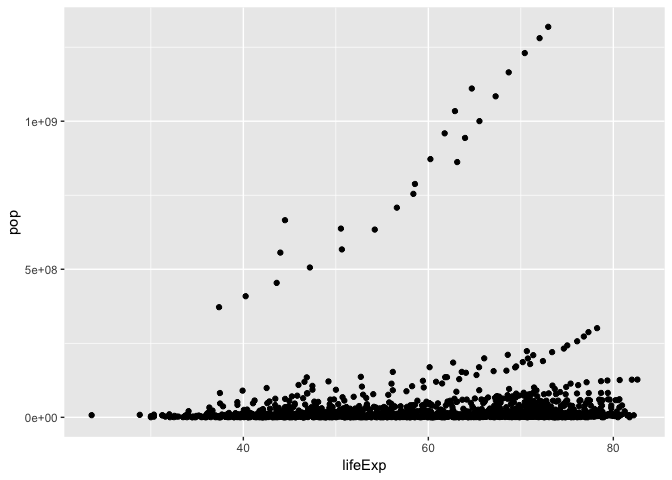
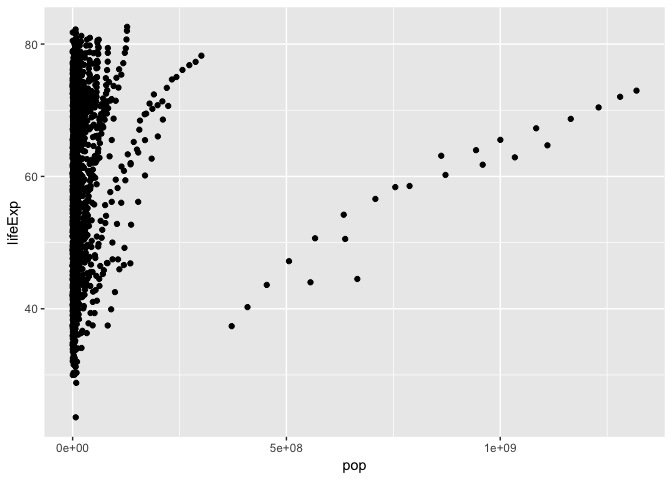
Final commit!

diff --git a/hw02-tsmith93.md b/hw02-tsmith93.md
@@ -3,27 +3,33 @@ hw02-tsmith93
 Thomas Smith
 2018-09-19
 
-Load gapminder and tidyverse
+Initial exploration
+-------------------
+
+If you haven't already done so, download both gapminder and tidyverse using `install.packages()`
+
+Next load gapminder and tidyverse:
 
 ``` r
 library(gapminder)
 library(tidyverse)
 ```
 
-    ## ── Attaching packages ─────────────────────────────────────────────── tidyverse 1.2.1 ──
+    ## ── Attaching packages ──────────────────────────────────────────────────────────────────────────── tidyverse 1.2.1 ──
 
     ## ✔ ggplot2 3.0.0     ✔ purrr   0.2.5
     ## ✔ tibble  1.4.2     ✔ dplyr   0.7.6
     ## ✔ tidyr   0.8.1     ✔ stringr 1.3.1
     ## ✔ readr   1.1.1     ✔ forcats 0.3.0
 
-    ## ── Conflicts ────────────────────────────────────────────────── tidyverse_conflicts() ──
+    ## ── Conflicts ─────────────────────────────────────────────────────────────────────────────── tidyverse_conflicts() ──
     ## ✖ dplyr::filter() masks stats::filter()
     ## ✖ dplyr::lag()    masks stats::lag()
 
-What type of file?
+What type of file is gapminder?
 
 ``` r
+#use class function
 class(gapminder)
 ```
 
@@ -34,6 +40,7 @@ The function class (above) shows this is a tibble data frame, tibble, and a data
 You can fin out the number of observations/rows and variable/collumns, respectively:
 
 ``` r
+#dim is short for dimensions!
 dim(gapminder)
 ```
 
@@ -44,6 +51,7 @@ This shows there are 6 collumns/variables and 1704 rows/observations
 Alternatively, you can use individual functions to identify either number of rows:
 
 ``` r
+#n represents numbers
 nrow(gapminder)
 ```
 
@@ -60,6 +68,7 @@ ncol(gapminder)
 You can also figure out what is the type of each variables individually:
 
 ``` r
+#first call upon the dataframe, followed by the variable you want to investigate
 class(gapminder$country)
 ```
 
@@ -88,6 +97,10 @@ lapply(gapminder, class)
     ## 
     ## $gdpPercap
     ## [1] "numeric"
+
+``` r
+#lapply will call upon all the variables within the specified dataframe
+```
 
 You can also look at the range of variables, whether they be categorical:
 
@@ -167,6 +180,10 @@ levels(gapminder$country)
     ## [139] "West Bank and Gaza"       "Yemen, Rep."             
     ## [141] "Zambia"                   "Zimbabwe"
 
+``` r
+#levels is used specifically for categorical variables
+```
+
 Or quantitative:
 
 ``` r
@@ -174,6 +191,10 @@ range(gapminder$lifeExp)
 ```
 
     ## [1] 23.599 82.603
+
+``` r
+#range is used for quantitative variables
+```
 
 Here is a summary of the data, including distribution:
 
@@ -197,6 +218,12 @@ summary(gapminder)
     ##  3rd Qu.:1.959e+07   3rd Qu.:  9325.5  
     ##  Max.   :1.319e+09   Max.   :113523.1  
     ## 
+
+``` r
+#summary will show the spread of the data. Specifically, it tells you the minumum and maximum values, the 1st and 3rd quartile, the median and the mean.
+```
+
+For all the categorical variables, such as country and continent, only the total number of observations are shown. For quantitative variables, the distribution of data is shown.
 
 Specific summary statistics can also be shown, such as the mean of each variable:
 
@@ -228,6 +255,17 @@ lapply(gapminder, mean)
     ## $gdpPercap
     ## [1] 7215.327
 
+``` r
+#Again, lapply allows you to look all variables with one command
+```
+
+No mean values are shown for the categorical variables as it is not possible!
+
+Visual representation
+---------------------
+
+### Plotting two variables together
+
 Next we can plot some of these variables. To start off, we will do a scatterplot of two variables. But before then, it is always good practice to make a grammar component table:
 
 | Grammar Component     | Specification |
@@ -241,11 +279,37 @@ Next we can plot some of these variables. To start off, we will do a scatterplot
 | facetting             | none          |
 
 ``` r
-ggplot(gapminder, aes(x=lifeExp, y=pop)) + 
-    geom_point()
+#Make things easy by assigning a standard plot to variable title "lvsp", meaning lifeExp vs. population
+lvsp <- ggplot(gapminder, aes(x=pop, y=lifeExp)) 
+#next add a geometric object so you can actually see the data ;)
+lvsp + geom_point()
 ```
 
-![](hw02-tsmith93_files/figure-markdown_github/unnamed-chunk-12-1.png)
+![](hw02-tsmith93_files/figure-markdown_github/unnamed-chunk-12-1.png) This plot shows how life expectancy increases with gdpPercap. Lets more clearly present this information with a trendline.
+
+Using multiple functions, you can remove "distracting" elements in the plot.
+
+``` r
+lvsp + geom_point() + 
+#remove the background grid and colour
+  theme(panel.grid.major = element_blank(), panel.grid.minor = element_blank(), panel.background = element_blank(),
+#add axis lines        
+  axis.line = element_line(colour = "black"))
+```
+
+![](hw02-tsmith93_files/figure-markdown_github/unnamed-chunk-13-1.png)
+
+Or you can more clearly present what the data is showing:
+
+``` r
+lvsp + geom_point() +
+#this line adds a trendline with lm meaning linear model, se = FALSE removes standard error bars, aes makes the trendline for each continent a different colour  
+  geom_smooth(method = "lm", se = FALSE, aes(colour = continent))
+```
+
+![](hw02-tsmith93_files/figure-markdown_github/unnamed-chunk-14-1.png) This shows that in Africa, life expectancy increases the most rapidly with gdp per capita compared to other continents.
+
+### Plotting one variable
 
 We can also present data for one quantitative variable using plots such as histograms:
 
@@ -258,15 +322,17 @@ We can also present data for one quantitative variable using plots such as histo
 | statistical transform | none          |
 
 ``` r
+#First describe the data and aesthetic mapping
 ggplot(gapminder, aes(gdpPercap)) +
-    geom_histogram()
+#Next add the geometric object which is a histogram, and describe the width of the bins, in this case 30
+    geom_histogram(bins = 30)
 ```
 
-    ## `stat_bin()` using `bins = 30`. Pick better value with `binwidth`.
+![](hw02-tsmith93_files/figure-markdown_github/unnamed-chunk-15-1.png)
 
-![](hw02-tsmith93_files/figure-markdown_github/unnamed-chunk-13-1.png)
+### Plotting categorical variables with quantitative variables
 
-Finally, we can plot quantitative and categorical data together. A popular choice for this is a boxplot:
+A popular choice for plotting the ttwo types of variables is with a boxplot:
 
 | Grammar Component     | Specification    |
 |-----------------------|------------------|
@@ -278,13 +344,18 @@ Finally, we can plot quantitative and categorical data together. A popular choic
 
 ``` r
 a <- ggplot(gapminder, aes(continent, lifeExp)) +
+#you can also add a log-y scale with this next function
   scale_y_log10()
-a
+#add a boxplot, and maybve even some colour!
+a + geom_boxplot(aes(fill = continent))
 ```
 
-![](hw02-tsmith93_files/figure-markdown_github/unnamed-chunk-14-1.png)
+![](hw02-tsmith93_files/figure-markdown_github/unnamed-chunk-16-1.png)
 
-We are also able to filter our data in order to plot data in a more precise way:
+Sorting data
+------------
+
+We can use functions such as select to specify the data we want to look at:
 
 ``` r
 select(gapminder, country, year, lifeExp)
@@ -305,10 +376,14 @@ select(gapminder, country, year, lifeExp)
     ## 10 Afghanistan  1997    41.8
     ## # ... with 1,694 more rows
 
+``` r
+#first specify the dataframe, followed by all the variables you want to include
+```
+
 Alternatively, filter:
 
 ``` r
-filter(gapminder, lifeExp>34)
+filter(gapminder, lifeExp > 34)
 ```
 
     ## # A tibble: 1,680 x 6
@@ -326,11 +401,17 @@ filter(gapminder, lifeExp>34)
     ## 10 Albania     Europe     1952    55.2  1282697     1601.
     ## # ... with 1,670 more rows
 
+``` r
+#the dataframe, followed by a certain rule you would like to apply
+```
+
+Look! Only the rows where life expectancy above 30 is shown.
+
 Another way is to use piping:
 
 ``` r
 gapminder %>% 
-  filter(lifeExp<30)
+  filter(lifeExp < 30)
 ```
 
     ## # A tibble: 2 x 6
@@ -341,40 +422,72 @@ gapminder %>%
 
 Now, why don't we apply filters to `ggplot()`!
 
-| Grammar Component     | Specification |
-|-----------------------|---------------|
-| **data**              | `gapminder`   |
-| **aesthetic mapping** |               |
-| **geometric object**  |               |
-| scale                 |               |
-| statistical transform |               |
+| Grammar Component     | Specification  |
+|-----------------------|----------------|
+| **data**              | `gapminder`    |
+| **aesthetic mapping** | \`x and y      |
+| **geometric object**  | line and point |
+| scale                 | linear         |
+| statistical transform | none           |
 
 ``` r
 gapminder %>% 
+#pipe out a specific country  
  filter(country == "India") %>% 
+#specify x and y variables
  ggplot(aes(year, pop)) +
+#add geometric objects
  geom_line() +
  geom_point()
 ```
 
-![](hw02-tsmith93_files/figure-markdown_github/unnamed-chunk-18-1.png)
+![](hw02-tsmith93_files/figure-markdown_github/unnamed-chunk-20-1.png)
 
 Or we can even plot the same information for multiple countries at the same time:
 
 ``` r
+#Specify the data and aesthetic mapping to a specific variable
 c <- ggplot(gapminder, aes(year, lifeExp))
-c + geom_line()
+#Add a geometric shape
+c + geom_line() +
+#Add trendlines for country
+  geom_line(aes(group=country), alpha=0.2)
 ```
 
-![](hw02-tsmith93_files/figure-markdown_github/unnamed-chunk-19-1.png)
+![](hw02-tsmith93_files/figure-markdown_github/unnamed-chunk-21-1.png)
+
+Extra
+-----
+
+### Interesting dplyr functions
+
+Arrange dataframe by descending order for a specific variable:
 
 ``` r
-c + geom_line(aes(group=country), alpha=0.2)
+#Within the `desc()`, specify what variable you want to sort
+arrange(gapminder, desc(lifeExp))
 ```
 
-![](hw02-tsmith93_files/figure-markdown_github/unnamed-chunk-19-2.png)
+    ## # A tibble: 1,704 x 6
+    ##    country          continent  year lifeExp       pop gdpPercap
+    ##    <fct>            <fct>     <int>   <dbl>     <int>     <dbl>
+    ##  1 Japan            Asia       2007    82.6 127467972    31656.
+    ##  2 Hong Kong, China Asia       2007    82.2   6980412    39725.
+    ##  3 Japan            Asia       2002    82   127065841    28605.
+    ##  4 Iceland          Europe     2007    81.8    301931    36181.
+    ##  5 Switzerland      Europe     2007    81.7   7554661    37506.
+    ##  6 Hong Kong, China Asia       2002    81.5   6762476    30209.
+    ##  7 Australia        Oceania    2007    81.2  20434176    34435.
+    ##  8 Spain            Europe     2007    80.9  40448191    28821.
+    ##  9 Sweden           Europe     2007    80.9   9031088    33860.
+    ## 10 Israel           Asia       2007    80.7   6426679    25523.
+    ## # ... with 1,694 more rows
 
-Now for some extra fun, lets evaluate this data line where the author was hoping to get data only from Afghanistan and Rwanda.
+Looks like Japan had the highest overall average life expectancy in 2007!
+
+### Evaluating someone elses data chunk
+
+Lets evaluate this data line where the author was hoping to get data only from Afghanistan and Rwanda.
 
 ``` r
 filter(gapminder, country == c("Rwanda", "Afghanistan"))
@@ -396,6 +509,4 @@ filter(gapminder, country == c("Rwanda", "Afghanistan"))
     ## 11 Rwanda      Africa     1992    23.6  7290203      737.
     ## 12 Rwanda      Africa     2002    43.4  7852401      786.
 
-It appears they did so correctly!
-
-TA DA, done... almost...
+As only data from Afghanistan and Rwanda are shown, it appears they did so correctly!
